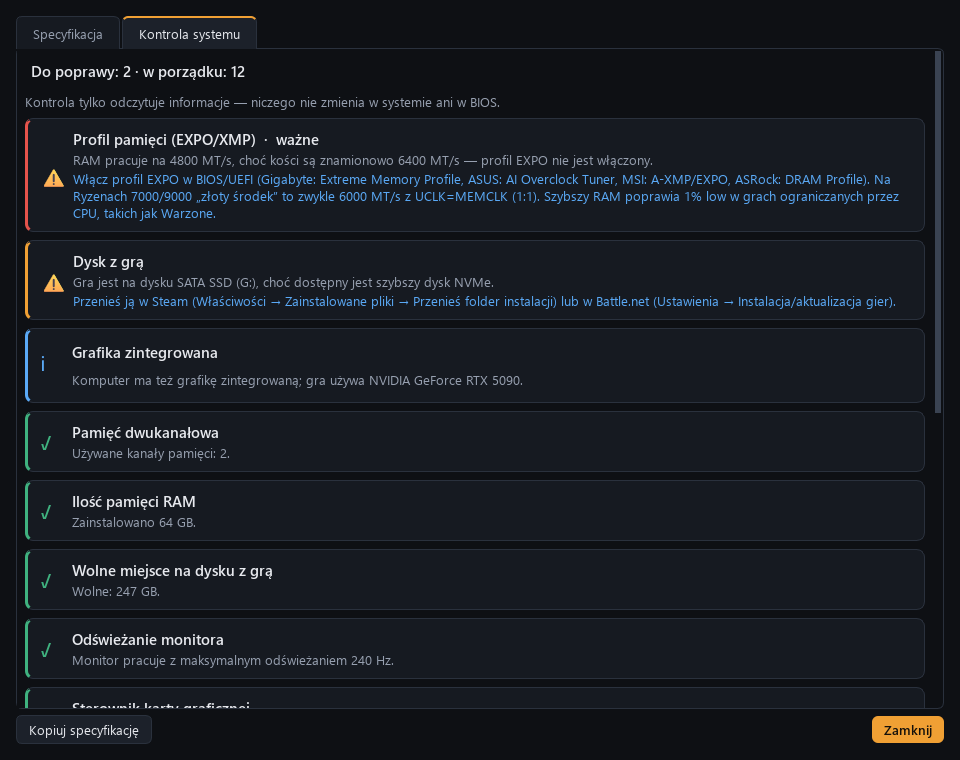
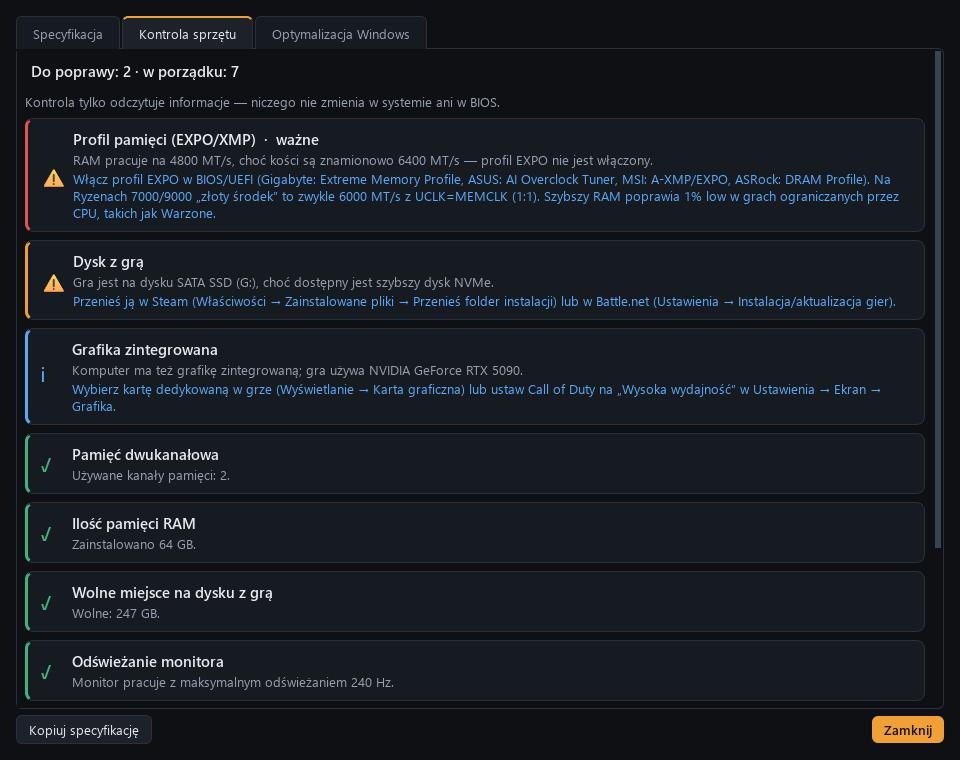
Release 1.3.0: Windows 11 optimization
Bumps the version, rewrites the changelog section for the release,
points the README download to the 1.3.0 exe and refreshes the
"Hardware check" screenshot (tab renamed in stage 10c).

diff --git a/src/wzce/__init__.py b/src/wzce/__init__.py
@@ -1,4 +1,4 @@
 """Warzone Config Editor - editor for Call of Duty BO7 / Warzone PC settings files."""
 
 # Single source of the version: pyproject.toml reads it, the exe metadata too.
-__version__ = "1.2.0"
+__version__ = "1.3.0"

diff --git a/CHANGELOG.md b/CHANGELOG.md
@@ -4,39 +4,45 @@ Format oparty na [Keep a Changelog](https://keepachangelog.com/pl/1.1.0/), wersj
 [Semantic Versioning](https://semver.org/lang/pl/). Wersja programu jest zdefiniowana w jednym
 miejscu: `src/wzce/__init__.py`.
 
-## [Nieopublikowane]
+## [1.3.0] — 2026-10-17
 
 ### Dodano
 
-- Odczyt ustawień Windows ważnych dla gier (etap 10a, na razie bez interfejsu): wymagania
-  anty-cheatu Ricochet (UEFI, Secure Boot, dysk GPT, TPM 2.0 z wersją firmware, certyfikaty
-  Secure Boot 2023), wirtualizacja i zabezpieczenia (hypervisor, SVM/VT-x, VBS/HVCI, WSL/Hyper-V,
-  antywirus), opcje DirectX (Auto HDR, VRR, preferencja GPU dla gry), MPO, Game DVR, tryb
-  zasilania i parametry procesora, plik stronicowania, TRIM, akceleracja myszy, łącze sieciowe
-  i programy działające w tle. Wszystko tylko do odczytu, bez uprawnień administratora.
-- **Optymalizacja Windows 11** (etap 10c) — nowa zakładka w oknie „Sprzęt i system”, także
-  w menu *Narzędzia* → *Optymalizacja Windows…*. Podsumowanie wymagań gry, pozycje pogrupowane
-  w sekcje ze znaczkiem siły dowodów (wymagane przez grę / zmierzony wpływ / zależy od komputera /
-  bez wpływu na CoD), filtr „Pokaż tylko to, co wymaga uwagi”, lista mitów, lista kontrolna BIOS
-  i przycisk „Odśwież” po zmianach w Windows.
-- **Kontrola ustawień Windows** (etap 10b) — ok. 30 sprawdzeń z wyjaśnieniem i instrukcją: wymagania anty-cheatu (Secure Boot,
-  UEFI/GPT, TPM 2.0 i jego firmware, UAC, programy do przemapowania sterowania), wirtualizacja
-  (WSL/Hyper-V przy wyłączonym SVM), antywirus, sterownik WinRing0, karta graficzna dla gry,
-  Auto HDR, wyłączone MPO, Xbox Game Bar, limity procesora, sterownik AMD 3D V-Cache
-  i parkowanie rdzeni (X3D z dwoma CCD), mikrokod Intel 13./14. gen., wersja Windows (poprawki
-  dla Ryzenów i Core Ultra 200S), regresja sterownika NVIDIA po KB5066835, oczekujący restart,
-  plik stronicowania, miejsce na C:, TRIM, nakładki w tle, akceleracja myszy, Wi-Fi.
+- **Optymalizacja Windows 11** — nowa zakładka w oknie „Sprzęt i system”, także w menu
+  *Narzędzia* → *Optymalizacja Windows…*. Pokazuje stan ok. 30 ustawień Windows ważnych dla gry
+  i mówi, co z nimi zrobić:
+  - **wymagania anty-cheatu Ricochet**: Secure Boot, tryb UEFI i dysk GPT, TPM 2.0 (z wykrywaniem
+    firmware fTPM/PTT, które nie przechodzi weryfikacji), UAC, certyfikaty Secure Boot 2023,
+    programy do przemapowania sterowania (reWASD, Cronus Zen);
+  - **zabezpieczenia i wirtualizacja**: integralność pamięci (HVCI), WSL / Hyper-V / platforma
+    maszyny wirtualnej i SVM w BIOS, antywirus, lista blokowanych sterowników, sterownik WinRing0;
+  - **grafika**: karta graficzna dla gry, HAGS, Auto HDR, wyłączone MPO, optymalizacje pełnoekranowe;
+  - **tryb gry i Xbox**: tryb gry, nagrywanie w tle, Xbox Game Bar;
+  - **zasilanie i procesor**: plan i tryb zasilania, limity procesora, sterownik AMD 3D V-Cache
+    i parkowanie rdzeni (Ryzen X3D z dwoma CCD), mikrokod Intel 13./14. generacji;
+  - **aktualizacje**: wersja Windows (poprawki dla Ryzenów 5000–9000 i Core Ultra 200S), regresja
+    po KB5066835 ze sterownikami NVIDIA starszymi niż 581.94, oczekujący restart;
+  - **pamięć i dyski**: plik stronicowania, miejsce na dysku C:, TRIM;
+  - **programy w tle, mysz i sieć**: nakładki (Discord, Steam, NVIDIA, RTSS…), akceleracja
+    myszy, Wi-Fi zamiast kabla.
+
+  Każda pozycja ma znaczek siły dowodów (wymagane przez grę / zmierzony wpływ / zależy od
+  komputera / bez wpływu na CoD), instrukcję i przycisk do właściwej strony Windows. Do tego
+  filtr „Pokaż tylko to, co wymaga uwagi”, lista **mitów** (tweaki, które nic nie dają albo
+  szkodzą), **lista kontrolna BIOS** i przycisk „Odśwież” po zmianach w systemie. Wszystko tylko
+  do odczytu, bez uprawnień administratora — program niczego w Windows nie zmienia.
 - `wzce --system-report` — pełny wynik sondy sprzętu i systemu jako JSON (diagnostyka).
+- Raport [`docs/RAPORT_WINDOWS.md`](docs/RAPORT_WINDOWS.md): research optymalizacji Windows 11
+  pod gry (co działa, co jest mitem, źródła) i plan kolejnych etapów.
 
 ### Zmieniono
 
 - Plan zasilania: na Ryzenach X3D z dwoma CCD zalecany jest plan zrównoważony (wymóg sterownika
-  AMD), a przy planie zrównoważonym ważny jest tryb zasilania „Najlepsza wydajność”.
-- Wskazówki naprawy są pokazywane także przy pozycjach informacyjnych.
+  AMD — wcześniej program błędnie ostrzegał przed tym planem), a przy planie zrównoważonym
+  liczy się tryb zasilania „Najlepsza wydajność”.
 - Zakładka „Kontrola systemu” nazywa się teraz „Kontrola sprzętu” i pokazuje tylko sprzęt;
   przycisk „Kontrola systemu: N” na pasku otwiera zakładkę, w której są ostrzeżenia.
-- Raport [`docs/RAPORT_WINDOWS.md`](docs/RAPORT_WINDOWS.md): research optymalizacji Windows 11
-  pod gry (co działa, co jest mitem) i plan zakładki „Optymalizacja Windows”.
+- Wskazówki naprawy są pokazywane także przy pozycjach informacyjnych.
 
 ## [1.2.0] — 2026-10-17
 

diff --git a/docs/PLAN.md b/docs/PLAN.md
@@ -1,6 +1,6 @@
 # Plan realizacji — Warzone Config Editor
 
-> Status: stos zaakceptowany; **etapy 0–9 ukończone, wersja 1.2.0** (2026-10-17). Odhaczaj `[x]` w miarę postępu.
+> Status: stos zaakceptowany; **etapy 0–9 i 10a–10c ukończone, wersja 1.3.0** (2026-10-17). Odhaczaj `[x]` w miarę postępu.
 > Stos: Python 3.12 + PySide6-Essentials, pytest, ruff, uv, PyInstaller.
 > Szczegóły i uzasadnienie: [`RAPORT.md`](RAPORT.md). Format pliku: [`FILE_FORMAT.md`](FILE_FORMAT.md).
 
@@ -175,7 +175,7 @@ Propozycja i analiza: [`RAPORT_SPRZET.md`](RAPORT_SPRZET.md).
 - [x] Testy: 29 rdzenia (parsowanie, EXPO, sprawdzenia „mój PC” i „PC z problemami”) + 9 GUI
 - [ ] Później: HDR Windows (DisplayConfig), szczegóły PCIe/ReBAR dla AMD/Intel, więcej marek RAM
 
-### Etap 10 — Optymalizacja Windows 11
+### Etap 10 — Optymalizacja Windows 11 (10a–10c = wersja 1.3.0)
 Research, stan PC autora i propozycja: [`RAPORT_WINDOWS.md`](RAPORT_WINDOWS.md).
 - [x] 10a Odczyt bez administratora: `core/windows_info.py` (`SystemInfo.windows`) — UEFI,
       Secure Boot, GPT, TPM (wersja, producent, firmware), certyfikaty Secure Boot 2023, UAC,

diff --git a/README.md b/README.md
@@ -66,7 +66,7 @@ pilnuje poprawności wartości i bezpiecznie je zapisuje — z kopią zapasową 
 
 ### Pobranie i uruchomienie
 
-1. Pobierz `WarzoneConfigEditor-1.2.0.exe` (jeden plik, bez instalacji).
+1. Pobierz `WarzoneConfigEditor-1.3.0.exe` (jeden plik, bez instalacji).
 2. Uruchom. Przy pierwszym uruchomieniu Windows SmartScreen może pokazać ostrzeżenie
    („Nieznany wydawca”) — plik nie jest podpisany certyfikatem. Wybierz *Więcej informacji →
    Uruchom mimo to*. Sumę kontrolną SHA-256 znajdziesz w pliku `.sha256` obok.
@@ -178,7 +178,7 @@ validates every value and saves safely — with backups and a change history.
 
 ### Download & run
 
-Download `WarzoneConfigEditor-1.2.0.exe` (single file, no installation) and run it. Windows
+Download `WarzoneConfigEditor-1.3.0.exe` (single file, no installation) and run it. Windows
 SmartScreen may warn about an unknown publisher because the file is not code-signed — choose
 *More info → Run anyway*. The SHA-256 checksum is in the `.sha256` file next to it.
 

diff --git a/CLAUDE.md b/CLAUDE.md
@@ -4,7 +4,7 @@ GUI editor for Call of Duty: Black Ops 7 / Warzone PC settings files
 (`%LOCALAPPDATA%\Activision\Call of Duty\players\s.1.0.cod25.txt0` / `.txt1`).
 
 ## Status
-Released and working: **v1.2.0**, stages 0–9 of `docs/PLAN.md` done, ~430 tests green.
+Released and working: **v1.3.0**, stages 0–10c of `docs/PLAN.md` done, ~430 tests green.
 Current version: `src/wzce/__init__.py`; what changed recently: `CHANGELOG.md` + `git log`.
 Remaining ideas are the unchecked `[ ]` items in `docs/PLAN.md` - nothing is in progress unless
 the user says so.
